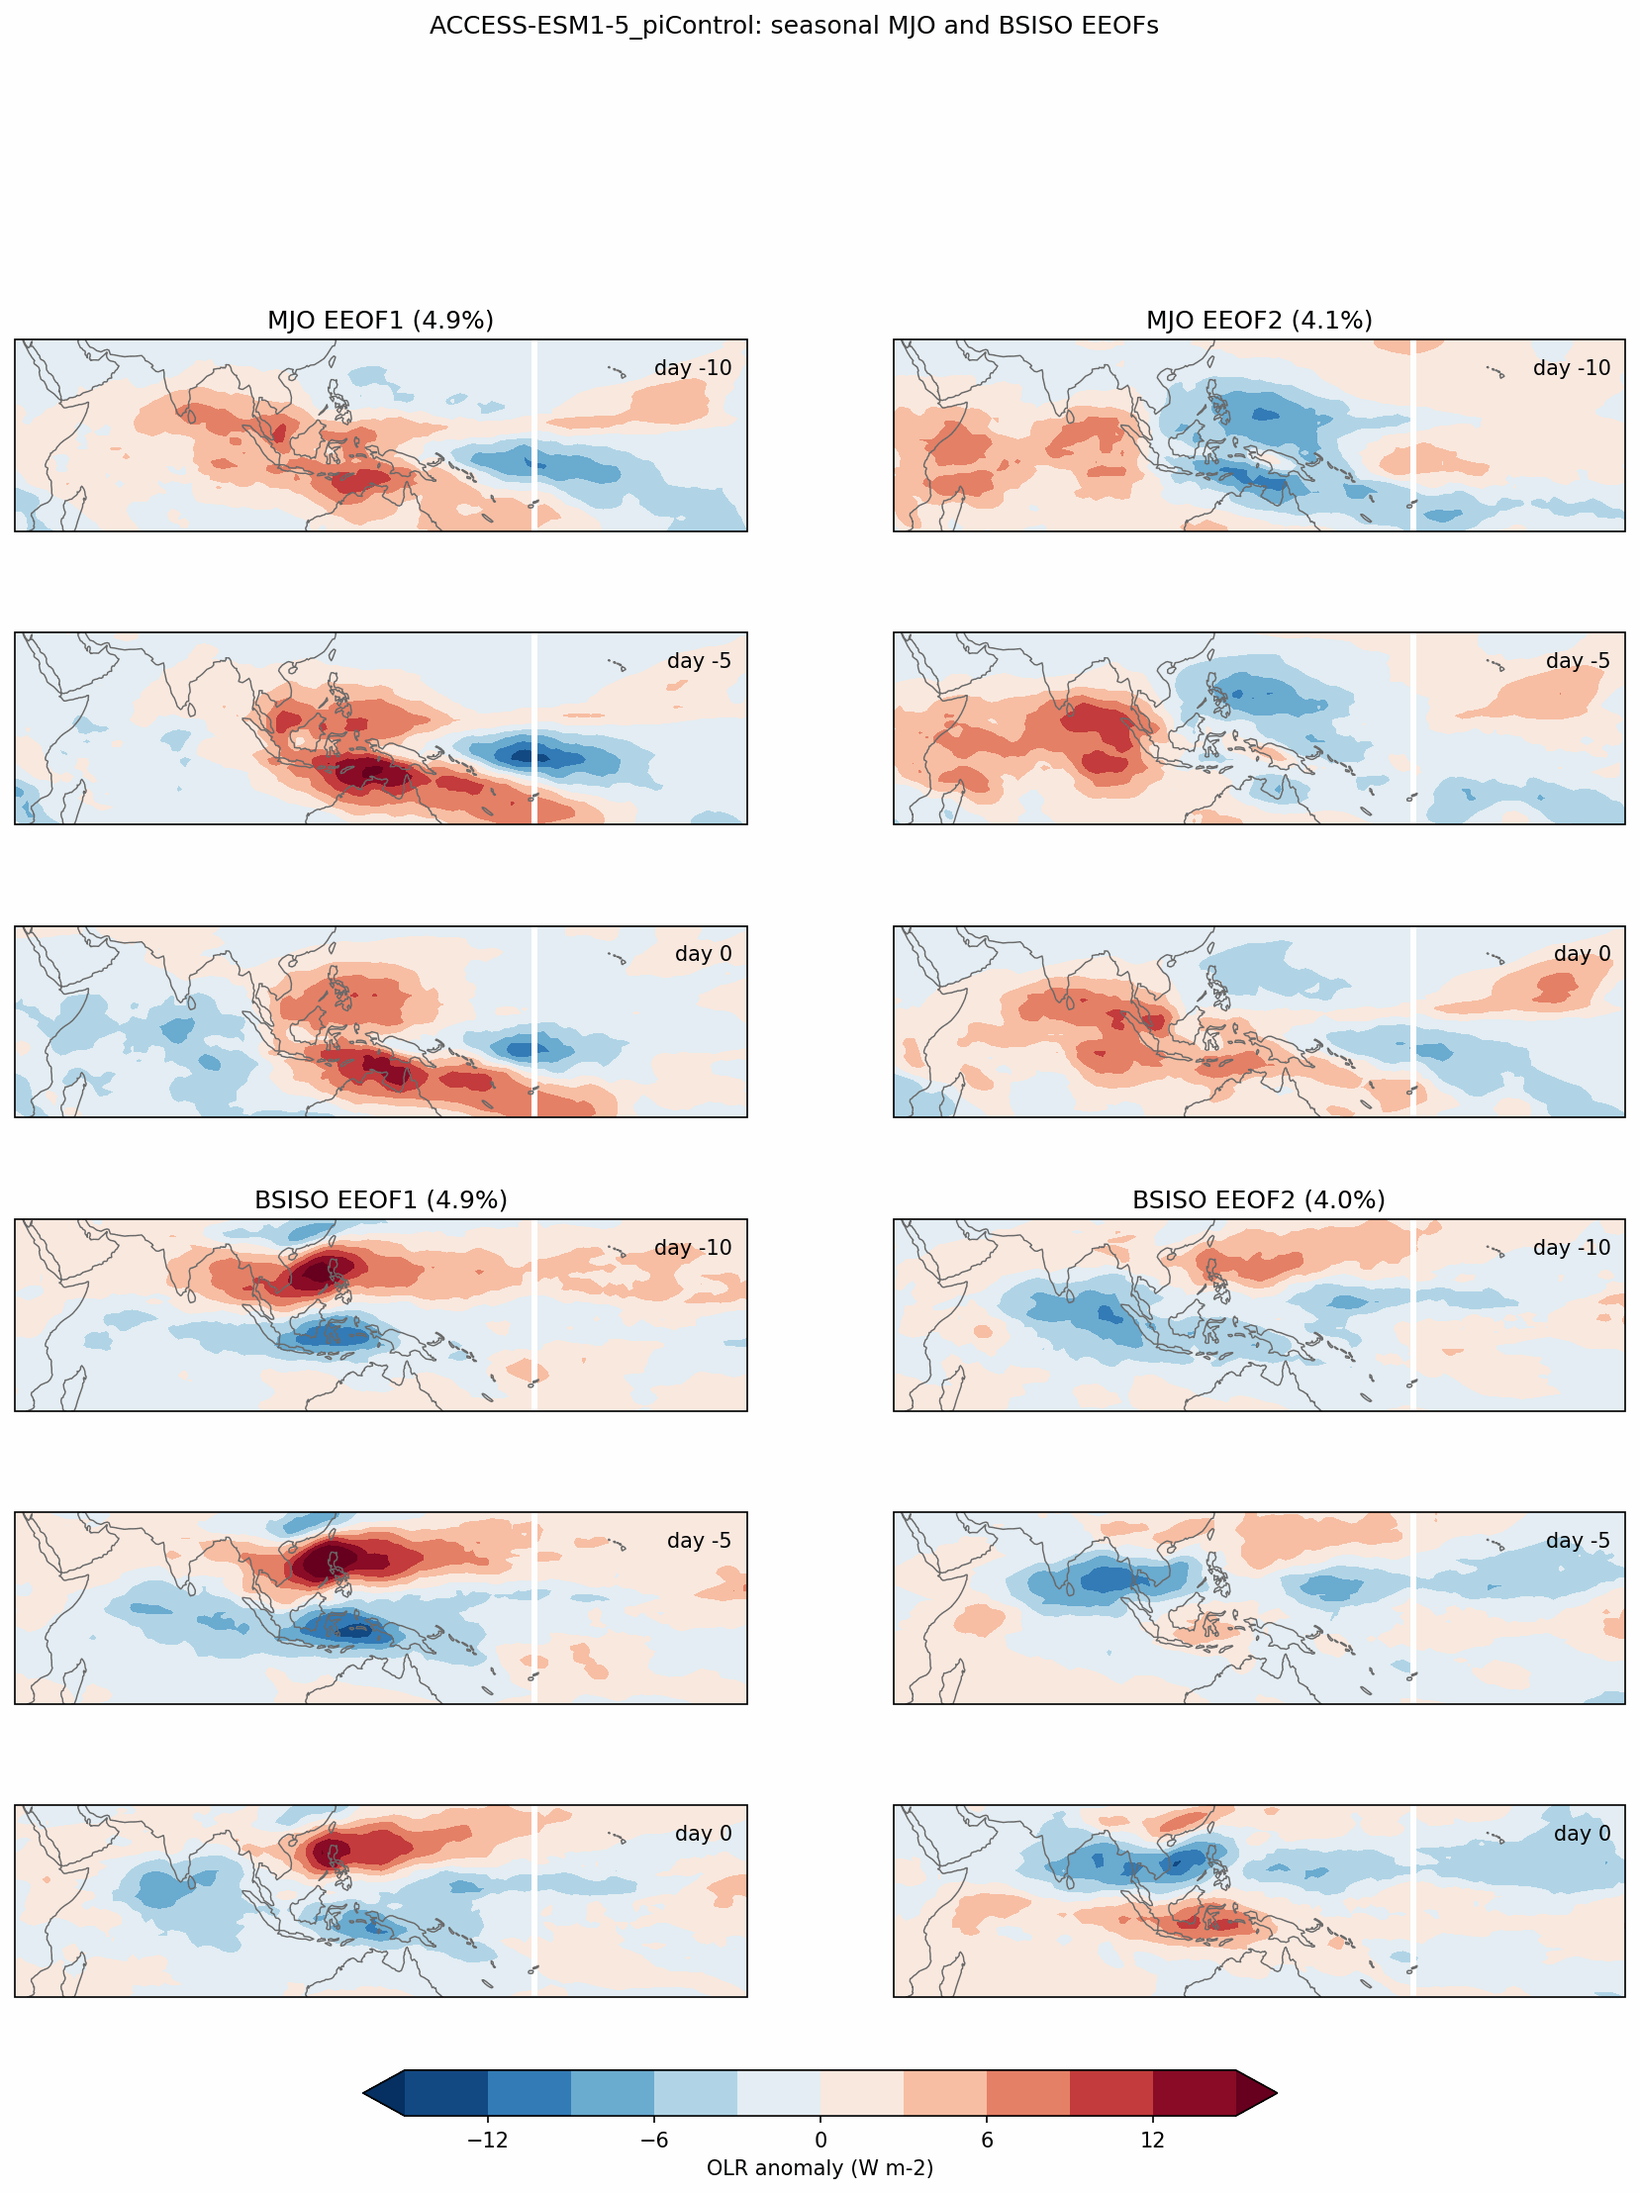
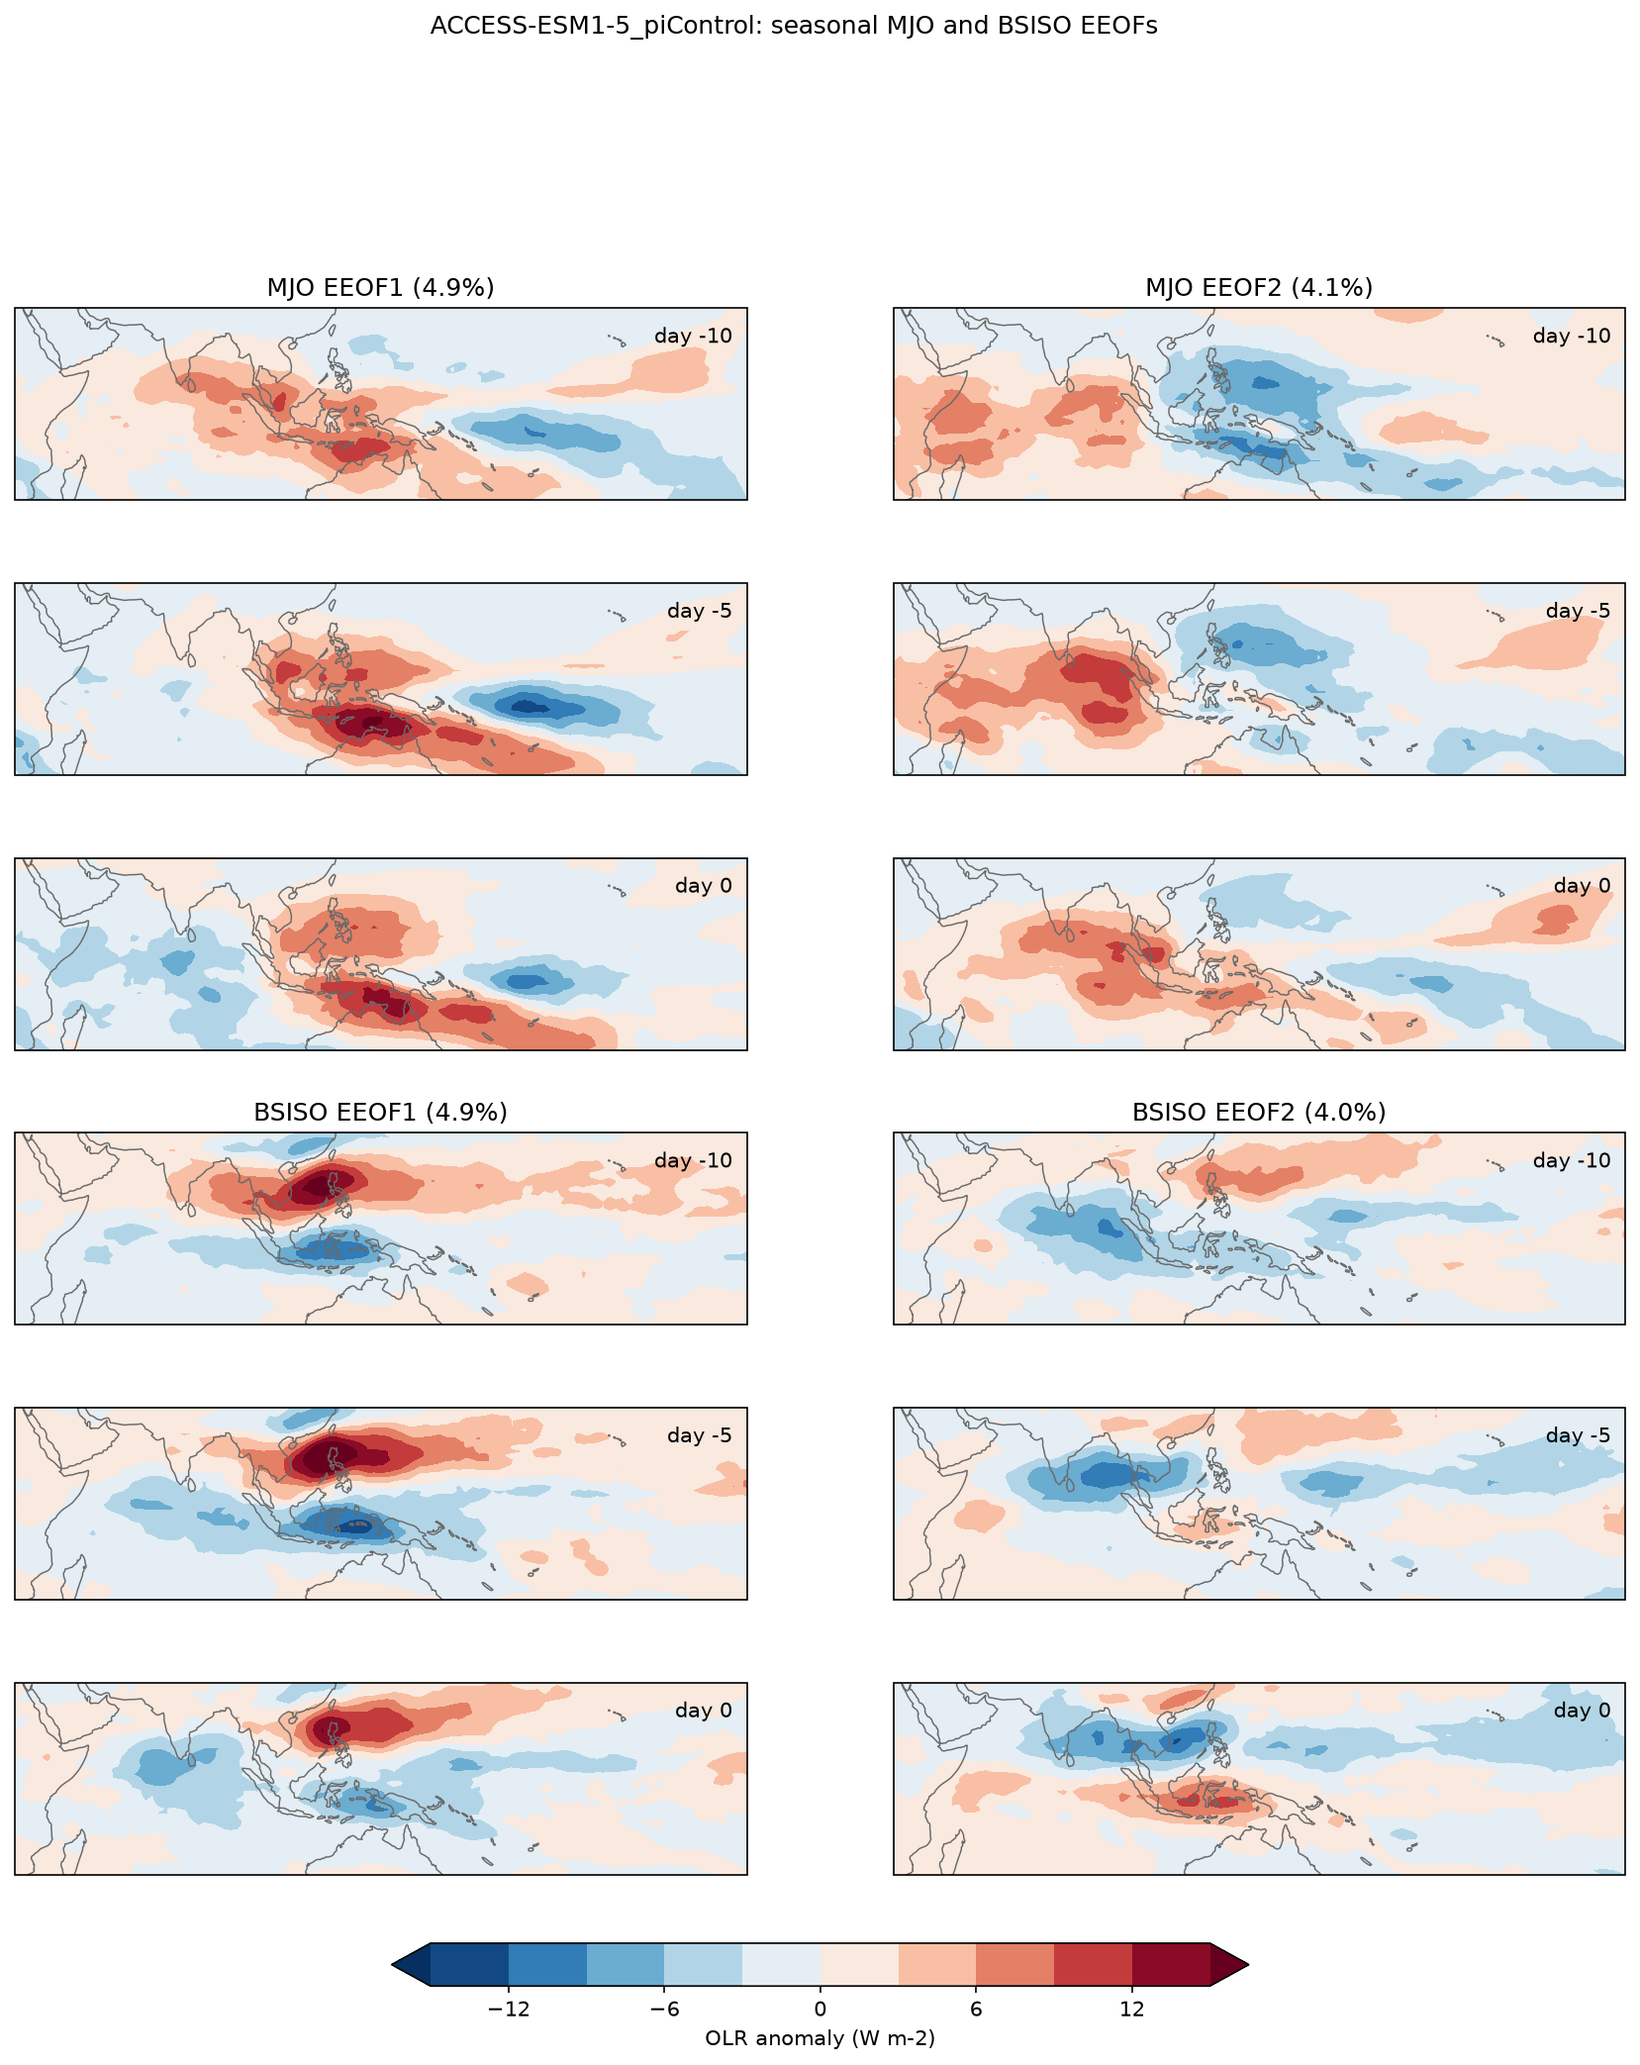
Use recipe aliases in bias diagnostic and refresh EEOF figure

diff --git a/esmvaltool/diag_scripts/mjo/mean_state_bias.py b/esmvaltool/diag_scripts/mjo/mean_state_bias.py
@@ -1,11 +1,10 @@
 # Copyright (C) 2026 ESMValTool development team
 """May-October precipitation and 850 hPa wind mean-state comparison.
 
-The recipe supplies five already subset and season-selected inputs: daily
-NCEP-NCAR-R1 precipitation and winds for 2000-2020, and daily precipitation
-from the final 30 years of ACCESS-ESM1-5 historical and ACCESS-CM2 piControl.
-The two model periods and experiments are intentionally labelled separately;
-this is a descriptive comparison rather than a matched-experiment test.
+The recipe supplies preprocessed reference precipitation and winds, plus
+precipitation from historical and control experiments. Dataset names and
+periods are taken from the input metadata so the diagnostic can be reused
+with other datasets.
 """
 
 import cartopy.crs as ccrs
@@ -34,7 +33,7 @@ REGIONS = {
 
 
 def _load_inputs(cfg):
-    """Return exactly one cube for each named recipe variable group."""
+    """Return one cube and its dataset alias for each variable group."""
     grouped = group_metadata(cfg["input_data"].values(), "variable_group")
     required = ("obs_pr", "obs_ua", "obs_va", "historical_pr", "control_pr")
     if set(grouped) != set(required):
@@ -43,6 +42,7 @@ def _load_inputs(cfg):
             msg,
         )
     cubes = {}
+    aliases = {}
     ancestors = []
     for name in required:
         entries = grouped[name]
@@ -51,13 +51,15 @@ def _load_inputs(cfg):
             raise ValueError(
                 msg,
             )
-        filename = entries[0]["filename"]
+        metadata = entries[0]
+        filename = metadata["filename"]
         cubes[name] = iris.load_cube(filename)
+        aliases[name] = metadata.get("alias") or metadata["dataset"]
         ancestors.append(filename)
-    return cubes, ancestors
+    return cubes, aliases, ancestors
 
 
-def calculate_biases(cubes):
+def calculate_biases(cubes, aliases):
     """Compute seasonal means and model-minus-reference precipitation bias."""
     means = {
         name: iris.util.squeeze(cube.collapsed("time", iris.analysis.MEAN))
@@ -74,8 +76,12 @@ def calculate_biases(cubes):
         means["control_pr"],
         scheme="linear",
     )
-    historical_bias.rename("ACCESS-ESM1-5 historical precipitation bias")
-    control_bias.rename("ACCESS-CM2 piControl precipitation bias")
+    historical_bias.rename(
+        f"{aliases['historical_pr']} minus {aliases['obs_pr']} precipitation",
+    )
+    control_bias.rename(
+        f"{aliases['control_pr']} minus {aliases['obs_pr']} precipitation",
+    )
     historical_bias.var_name = "historical_bias"
     control_bias.var_name = "control_bias"
     mean_obs_pr.var_name = "obs_pr"
@@ -92,7 +98,7 @@ def _period_label(cube):
     return f"{first}-{last}"
 
 
-def plot_biases(means, historical_bias, control_bias, periods):
+def plot_biases(means, historical_bias, control_bias, periods, aliases):
     """Render the notebook's three-panel mean state and bias figure."""
     fig, axes = plt.subplots(
         3,
@@ -171,7 +177,7 @@ def plot_biases(means, historical_bias, control_bias, periods):
             zorder=6,
         )
     axes[0].set_title(
-        f"NCEP-NCAR-R1 ({periods['obs_pr']})\n"
+        f"{aliases['obs_pr']} ({periods['obs_pr']})\n"
         "May-October precipitation and 850 hPa winds",
     )
 
@@ -179,13 +185,16 @@ def plot_biases(means, historical_bias, control_bias, periods):
         (
             historical_bias,
             (
-                "ACCESS-ESM1-5 historical "
-                f"({periods['historical_pr']}) - NCEP-NCAR-R1"
+                f"{aliases['historical_pr']} "
+                f"({periods['historical_pr']}) - {aliases['obs_pr']}"
             ),
         ),
         (
             control_bias,
-            (f"ACCESS-CM2 piControl ({periods['control_pr']}) - NCEP-NCAR-R1"),
+            (
+                f"{aliases['control_pr']} "
+                f"({periods['control_pr']}) - {aliases['obs_pr']}"
+            ),
         ),
     )
     for axis, (cube, title) in zip(axes[1:], biases, strict=False):
@@ -222,9 +231,9 @@ def plot_biases(means, historical_bias, control_bias, periods):
 
 def main(cfg):
     """Save the plotted mean fields, biases, and figure with provenance."""
-    cubes, ancestors = _load_inputs(cfg)
+    cubes, aliases, ancestors = _load_inputs(cfg)
     periods = {name: _period_label(cube) for name, cube in cubes.items()}
-    means, historical_bias, control_bias = calculate_biases(cubes)
+    means, historical_bias, control_bias = calculate_biases(cubes, aliases)
     output = iris.cube.CubeList(
         [
             means["obs_pr"],
@@ -238,9 +247,10 @@ def main(cfg):
     iris.save(output, data_file)
     provenance = {
         "caption": (
-            "May-October NCEP-NCAR-R1 precipitation and 850 hPa winds, "
-            "with ACCESS-ESM1-5 historical and ACCESS-CM2 piControl "
-            "precipitation biases relative to that reference"
+            f"May-October {aliases['obs_pr']} precipitation and 850 hPa "
+            f"winds, with {aliases['historical_pr']} and "
+            f"{aliases['control_pr']} precipitation biases relative to "
+            "that reference"
         ),
         "ancestors": ancestors,
         "authors": ["sullivan_arnold", "chun_felicity", "beucher_romain"],
@@ -250,7 +260,13 @@ def main(cfg):
     }
     with ProvenanceLogger(cfg) as logger:
         logger.log(data_file, provenance)
-    figure = plot_biases(means, historical_bias, control_bias, periods)
+    figure = plot_biases(
+        means,
+        historical_bias,
+        control_bias,
+        periods,
+        aliases,
+    )
     save_figure(
         "mjo_bsiso_mean_state_bias",
         provenance,

diff --git a/tests/unit/diag_scripts/mjo/test_mean_state_bias.py b/tests/unit/diag_scripts/mjo/test_mean_state_bias.py
@@ -1,0 +1,64 @@
+# Copyright (C) 2026 ESMValTool development team
+"""Tests for dataset-independent mean-state bias labels."""
+
+from esmvaltool.diag_scripts.mjo import mean_state_bias
+
+
+class FakeCube:
+    """Minimal cube for testing label propagation."""
+
+    def __init__(self):
+        self.long_name = None
+        self.var_name = None
+
+    def collapsed(self, *_args):
+        return self
+
+    def __sub__(self, _other):
+        return FakeCube()
+
+    def rename(self, name):
+        self.long_name = name
+
+
+def test_bias_names_follow_recipe_aliases(monkeypatch):
+    """Changing input aliases updates the saved bias descriptions."""
+    aliases = {
+        "obs_pr": "Reference-A",
+        "obs_ua": "Reference-A",
+        "obs_va": "Reference-A",
+        "historical_pr": "Model-B_historical",
+        "control_pr": "Model-C_piControl",
+    }
+    input_data = {
+        name: {
+            "variable_group": name,
+            "filename": f"{name}.nc",
+            "dataset": "unused-default",
+            "alias": alias,
+        }
+        for name, alias in aliases.items()
+    }
+    monkeypatch.setattr(mean_state_bias.iris, "load_cube", lambda _: FakeCube())
+    monkeypatch.setattr(mean_state_bias.iris.util, "squeeze", lambda cube: cube)
+    monkeypatch.setattr(
+        mean_state_bias,
+        "regrid",
+        lambda *_args, **_kwargs: FakeCube(),
+    )
+
+    cubes, input_aliases, _ = mean_state_bias._load_inputs(
+        {"input_data": input_data},
+    )
+    _, historical_bias, control_bias = mean_state_bias.calculate_biases(
+        cubes,
+        input_aliases,
+    )
+
+    assert input_aliases == aliases
+    assert historical_bias.long_name == (
+        "Model-B_historical minus Reference-A precipitation"
+    )
+    assert control_bias.long_name == (
+        "Model-C_piControl minus Reference-A precipitation"
+    )

diff --git a/doc/sphinx/source/recipes/recipe_mjo_bsiso.rst b/doc/sphinx/source/recipes/recipe_mjo_bsiso.rst
@@ -14,9 +14,10 @@ days -10, -5, and 0 are assembled on uninterrupted daily data before DJF and
 JJA training dates are selected. The two seasonal patterns are projected
 onto each available day using the training PCA mean and normalization.
 
-The mean-state diagnostic plots May–October precipitation and 850 hPa winds
-from NCEP-NCAR-R1 for 2000–2020. Its two precipitation bias panels use
-ACCESS-ESM1-5 historical 1985–2014 and ACCESS-CM2 piControl 1420–1449.
+In the example recipe, the mean-state diagnostic plots May–October
+precipitation and 850 hPa winds from NCEP-NCAR-R1 for 2000–2020. Its two
+precipitation bias panels use ACCESS-ESM1-5 historical 1985–2014 and
+ACCESS-CM2 piControl 1420–1449.
 These periods and experiments differ, so the panels are descriptive
 model-minus-reference comparisons.
 
@@ -51,6 +52,13 @@ The ``mjo_bsiso_index/index`` script accepts:
 The recipe selects a 30-year ACCESS-ESM1-5 piControl sample to match the
 source notebook. Set ``max_parallel_tasks`` to control memory use when
 running the full example on Gadi.
+
+The mean-state diagnostic can compare other datasets by changing the
+``additional_datasets`` entries for reference precipitation and winds, and
+for the historical and control precipitation inputs. Set aliases for the
+reference and both model precipitation datasets: the diagnostic uses those
+aliases in figure titles, NetCDF variable descriptions, and provenance
+instead of embedding the example dataset names.
 
 Variables
 ---------
